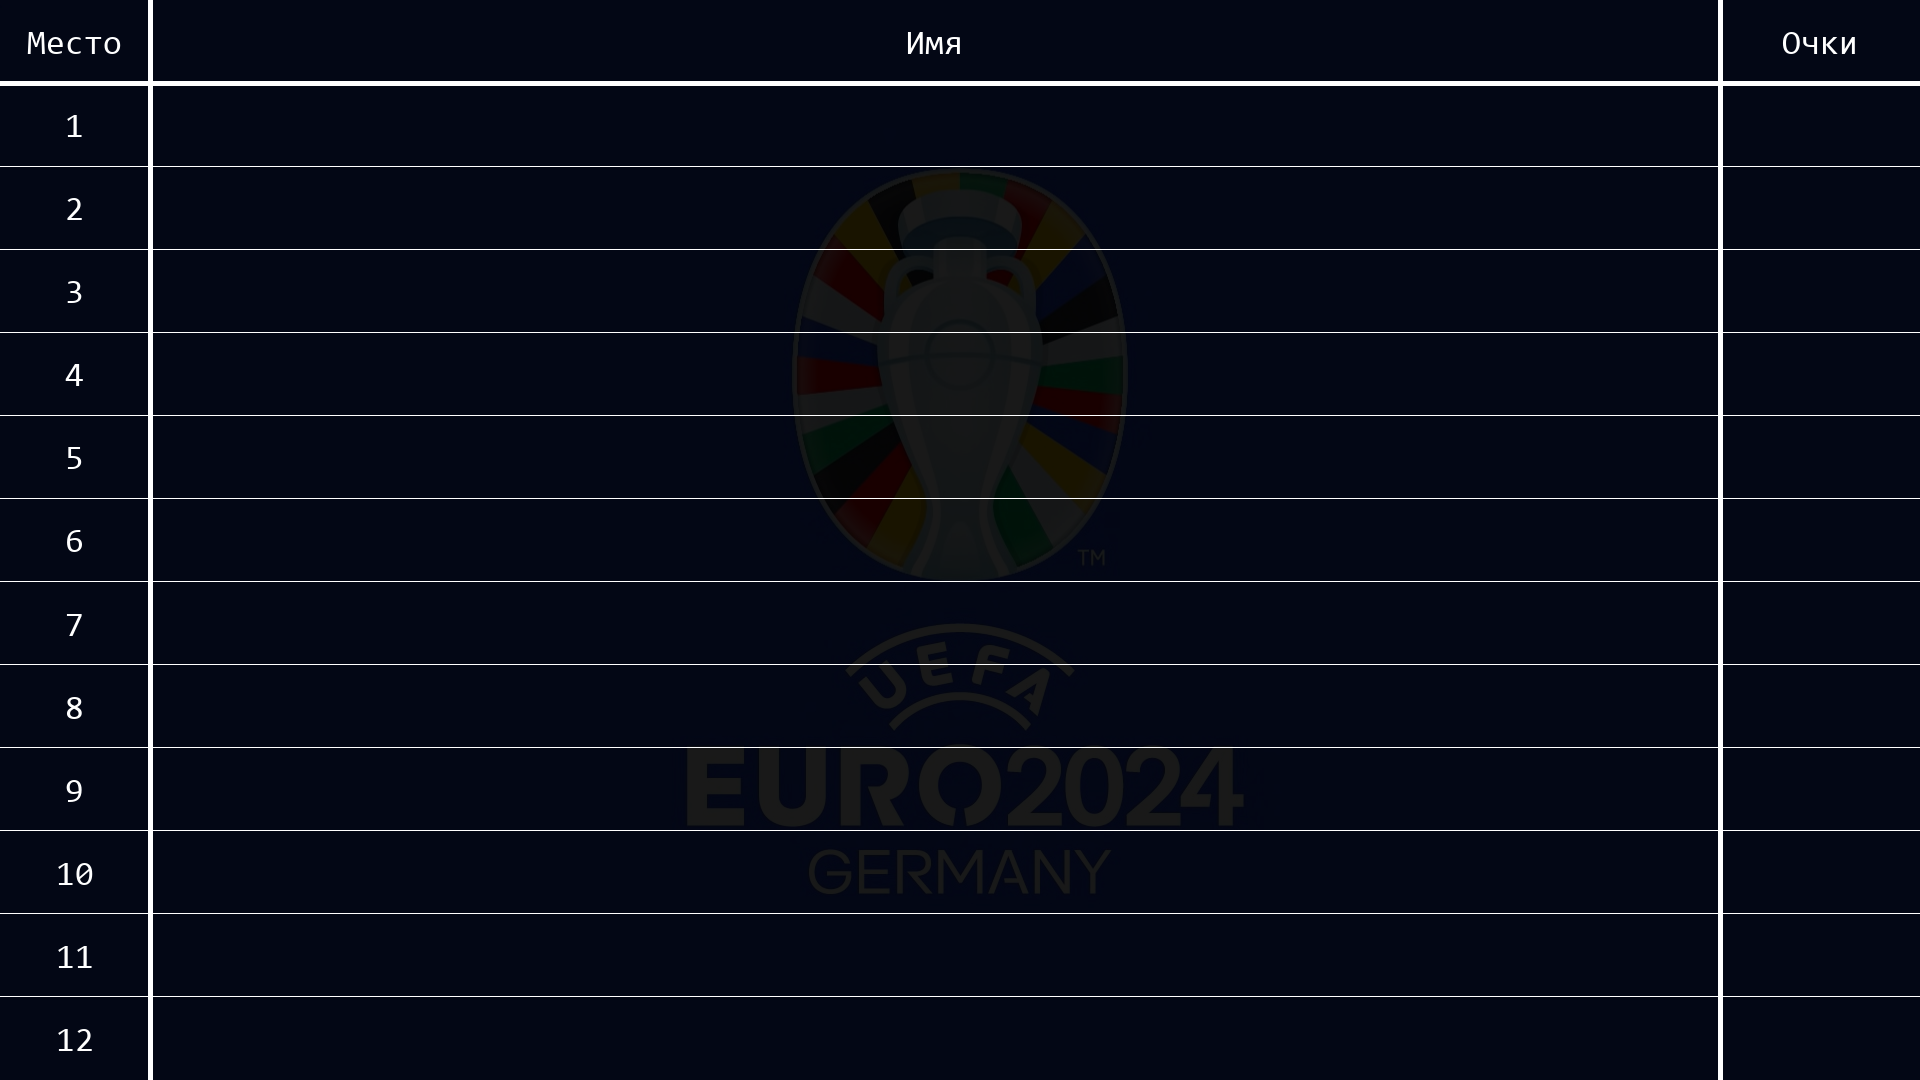
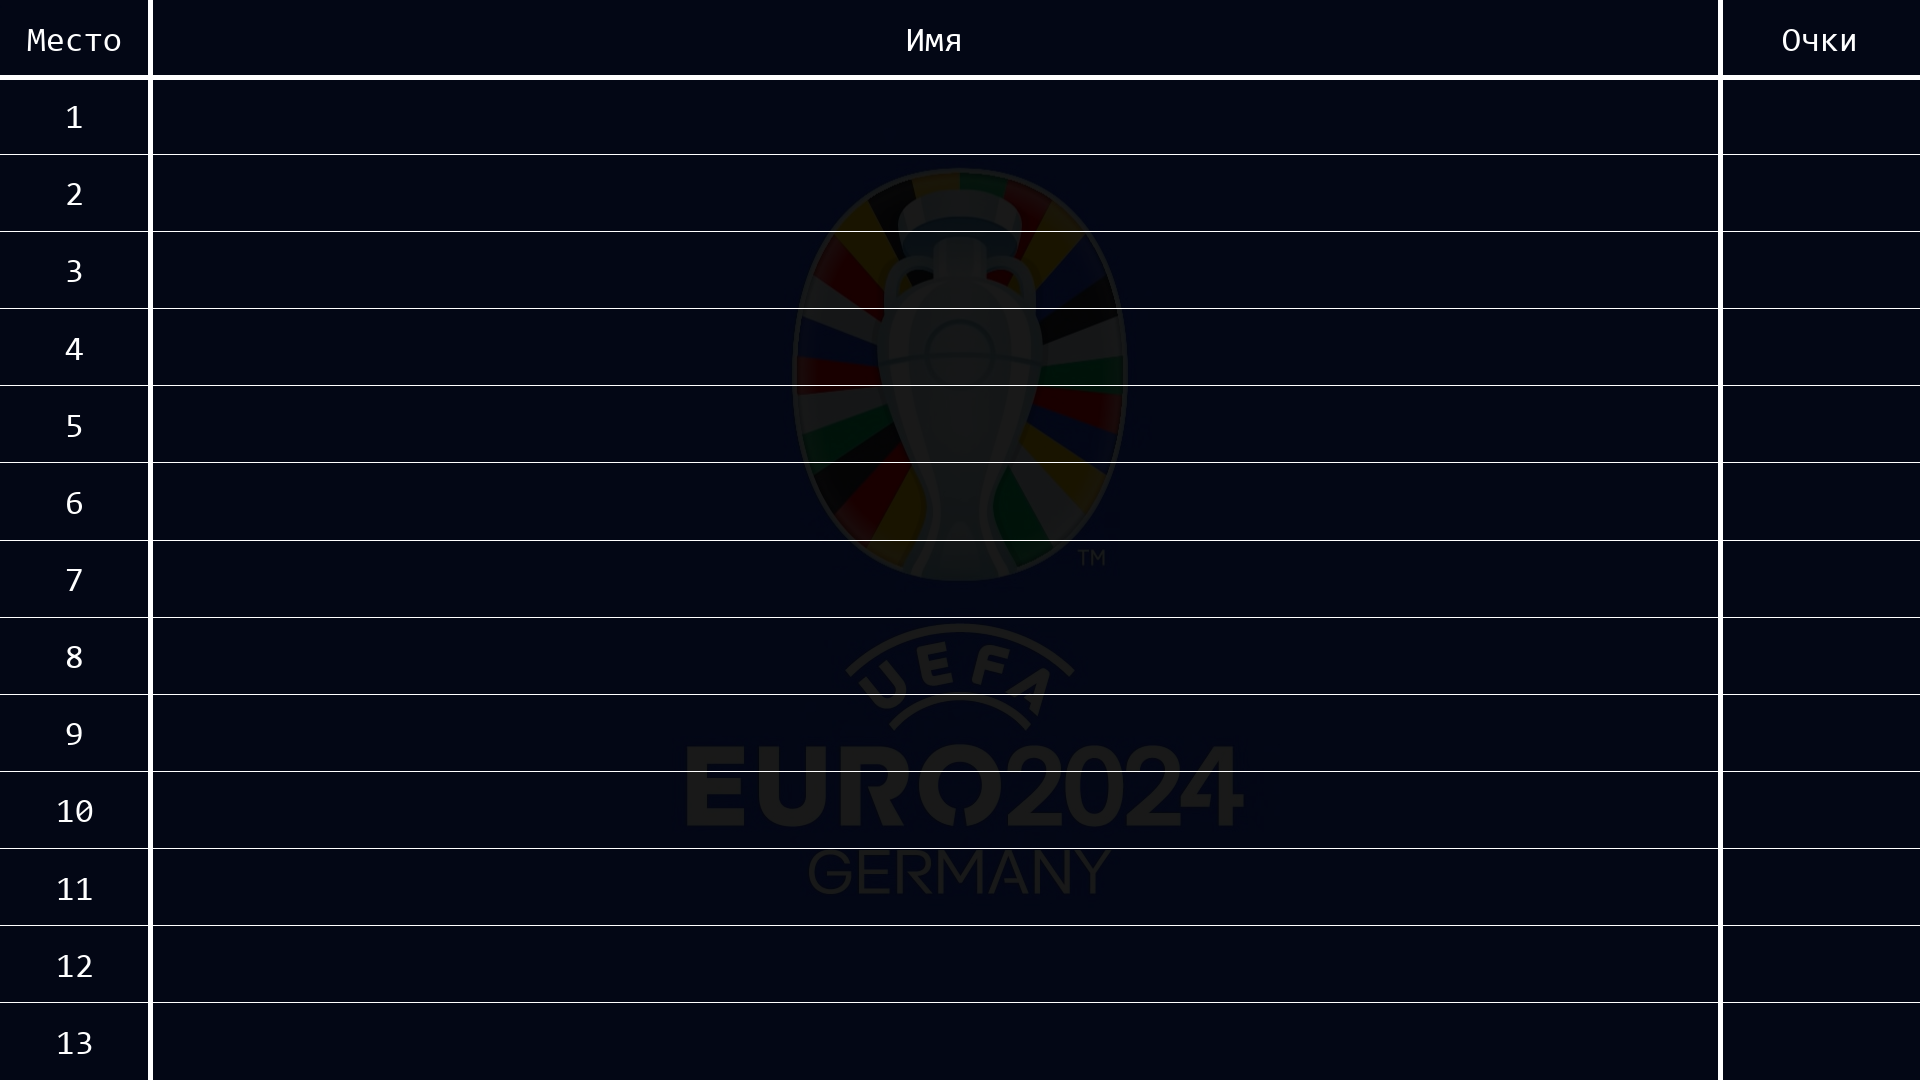
fix create images

diff --git a/config_data/config.py b/config_data/config.py
@@ -17,7 +17,7 @@ ADMIN_ID2 = os.getenv("ADMIN_ID2")
 
 NUMBER_OF_TOUR = 13
 SUM_COLUMN = 3
-NUMBER_OF_PLAYERS = 12
+NUMBER_OF_PLAYERS = 13
 COUNT_MATCHES_IN_TOUR = 4
 TOUR1_COLUMN = 4
 NICKNAME_COLUMN = 0 
